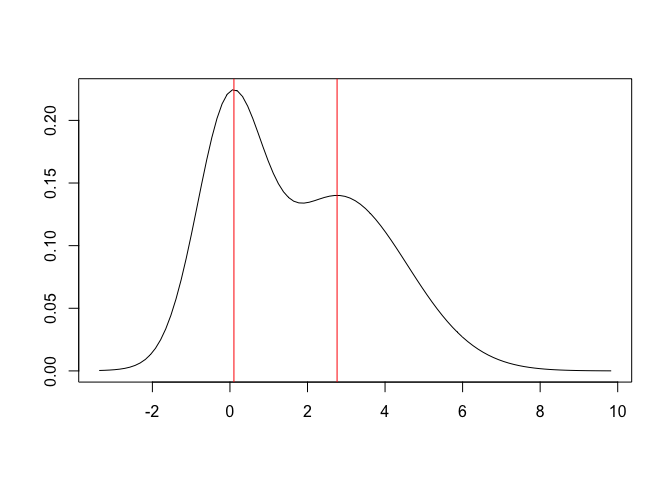
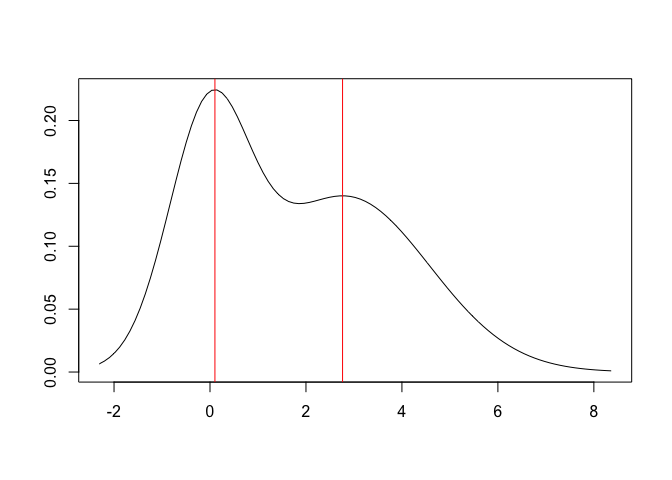
range is mandatory for mixture class

diff --git a/external_comp.md b/external_comp.md
@@ -211,8 +211,8 @@ fit <- stan(model_code = normal_mixture_model, data = data_list, iter = 2000, ch
     ## 
     ## SAMPLING FOR MODEL '07e8533f6a3188d2d50eb989867b63d7' NOW (CHAIN 1).
     ## Chain 1: 
-    ## Chain 1: Gradient evaluation took 5.7e-05 seconds
-    ## Chain 1: 1000 transitions using 10 leapfrog steps per transition would take 0.57 seconds.
+    ## Chain 1: Gradient evaluation took 5.1e-05 seconds
+    ## Chain 1: 1000 transitions using 10 leapfrog steps per transition would take 0.51 seconds.
     ## Chain 1: Adjust your expectations accordingly!
     ## Chain 1: 
     ## Chain 1: 
@@ -229,9 +229,9 @@ fit <- stan(model_code = normal_mixture_model, data = data_list, iter = 2000, ch
     ## Chain 1: Iteration: 1800 / 2000 [ 90%]  (Sampling)
     ## Chain 1: Iteration: 2000 / 2000 [100%]  (Sampling)
     ## Chain 1: 
-    ## Chain 1:  Elapsed Time: 0.254857 seconds (Warm-up)
-    ## Chain 1:                0.194138 seconds (Sampling)
-    ## Chain 1:                0.448995 seconds (Total)
+    ## Chain 1:  Elapsed Time: 0.255 seconds (Warm-up)
+    ## Chain 1:                0.196832 seconds (Sampling)
+    ## Chain 1:                0.451832 seconds (Total)
     ## Chain 1:
 
 #### Create a BayesMixture object
@@ -347,13 +347,14 @@ plot(bayesmode)
 summary(bayesmode)
 ```
 
-    ## The posterior probability of the data being multimodal is 0.033
+    ## The posterior probability of the data being multimodal is 0.093
     ## 
     ##  Number of estimated modes and their posterior probabilities:
 
     ##      Number of modes Posterior probabilty
-    ## [1,]               1                0.967
-    ## [2,]               2                0.033
+    ## [1,]               1                0.907
+    ## [2,]               2                0.073
+    ## [3,]               3                0.020
 
 ### BNPmix
 
@@ -447,9 +448,8 @@ summary(bayesmode)
     ##  Number of estimated modes and their posterior probabilities:
 
     ##      Number of modes Posterior probabilty
-    ## [1,]               2                0.960
-    ## [2,]               3                0.038
-    ## [3,]               4                0.002
+    ## [1,]               2                0.993
+    ## [2,]               3                0.007
 
 ## Mode estimation in mixtures estimated with maximum likelihood
 
@@ -479,7 +479,7 @@ fit = normalmixEM(y)
 ``` r
 pars = c(eta = fit$lambda, mu = fit$mu, sigma = fit$sigma)
 
-mix = mixture(pars, dist = "normal") # create a new object of class Mixture
+mix = mixture(pars, dist = "normal", range = c(min(y), max(y))) # create a new object of class Mixture
 modes = mix_mode(mix) # estimate modes and create an object of class Mode
 
 plot(modes)
@@ -514,7 +514,7 @@ pars = c(eta = fit$parameters$pro,
          mu = fit$parameters$mean,
          sigma = sqrt(fit$parameters$variance$sigmasq))
 
-mix = mixture(pars, dist = "normal") # creates a new object of class Mixture
+mix = mixture(pars, dist = "normal", range = c(min(y), max(y))) # creates a new object of class Mixture
 modes = mix_mode(mix) # estimates modes and creates an object of class Mode
 
 plot(modes)

diff --git a/README.md b/README.md
@@ -83,16 +83,15 @@ plot(bayesmode)
 summary(bayesmode)
 ```
 
-    ## The posterior probability of the data being multimodal is 0.999
+    ## The posterior probability of the data being multimodal is 0.993
     ## 
     ##  Number of estimated modes and their posterior probabilities:
 
     ##      Number of modes Posterior probabilty
-    ## [1,]               1                0.001
-    ## [2,]               2                0.031
-    ## [3,]               3                0.919
-    ## [4,]               4                0.047
-    ## [5,]               5                0.002
+    ## [1,]               1                0.007
+    ## [2,]               2                0.133
+    ## [3,]               3                0.840
+    ## [4,]               4                0.020
 
 ### BayesMultiMode for mode inference with external MCMC output
 
@@ -217,7 +216,7 @@ pars = c(eta = fit$parameters$pro,
          mu = fit$parameters$mean,
          sigma = sqrt(fit$parameters$variance$sigmasq))
 
-mix = mixture(pars, dist = "normal") # create new object of class Mixture
+mix = mixture(pars, dist = "normal", range = c(min(y), max(y))) # create new object of class Mixture
 modes = mix_mode(mix) # estimate modes
 
 plot(modes)
